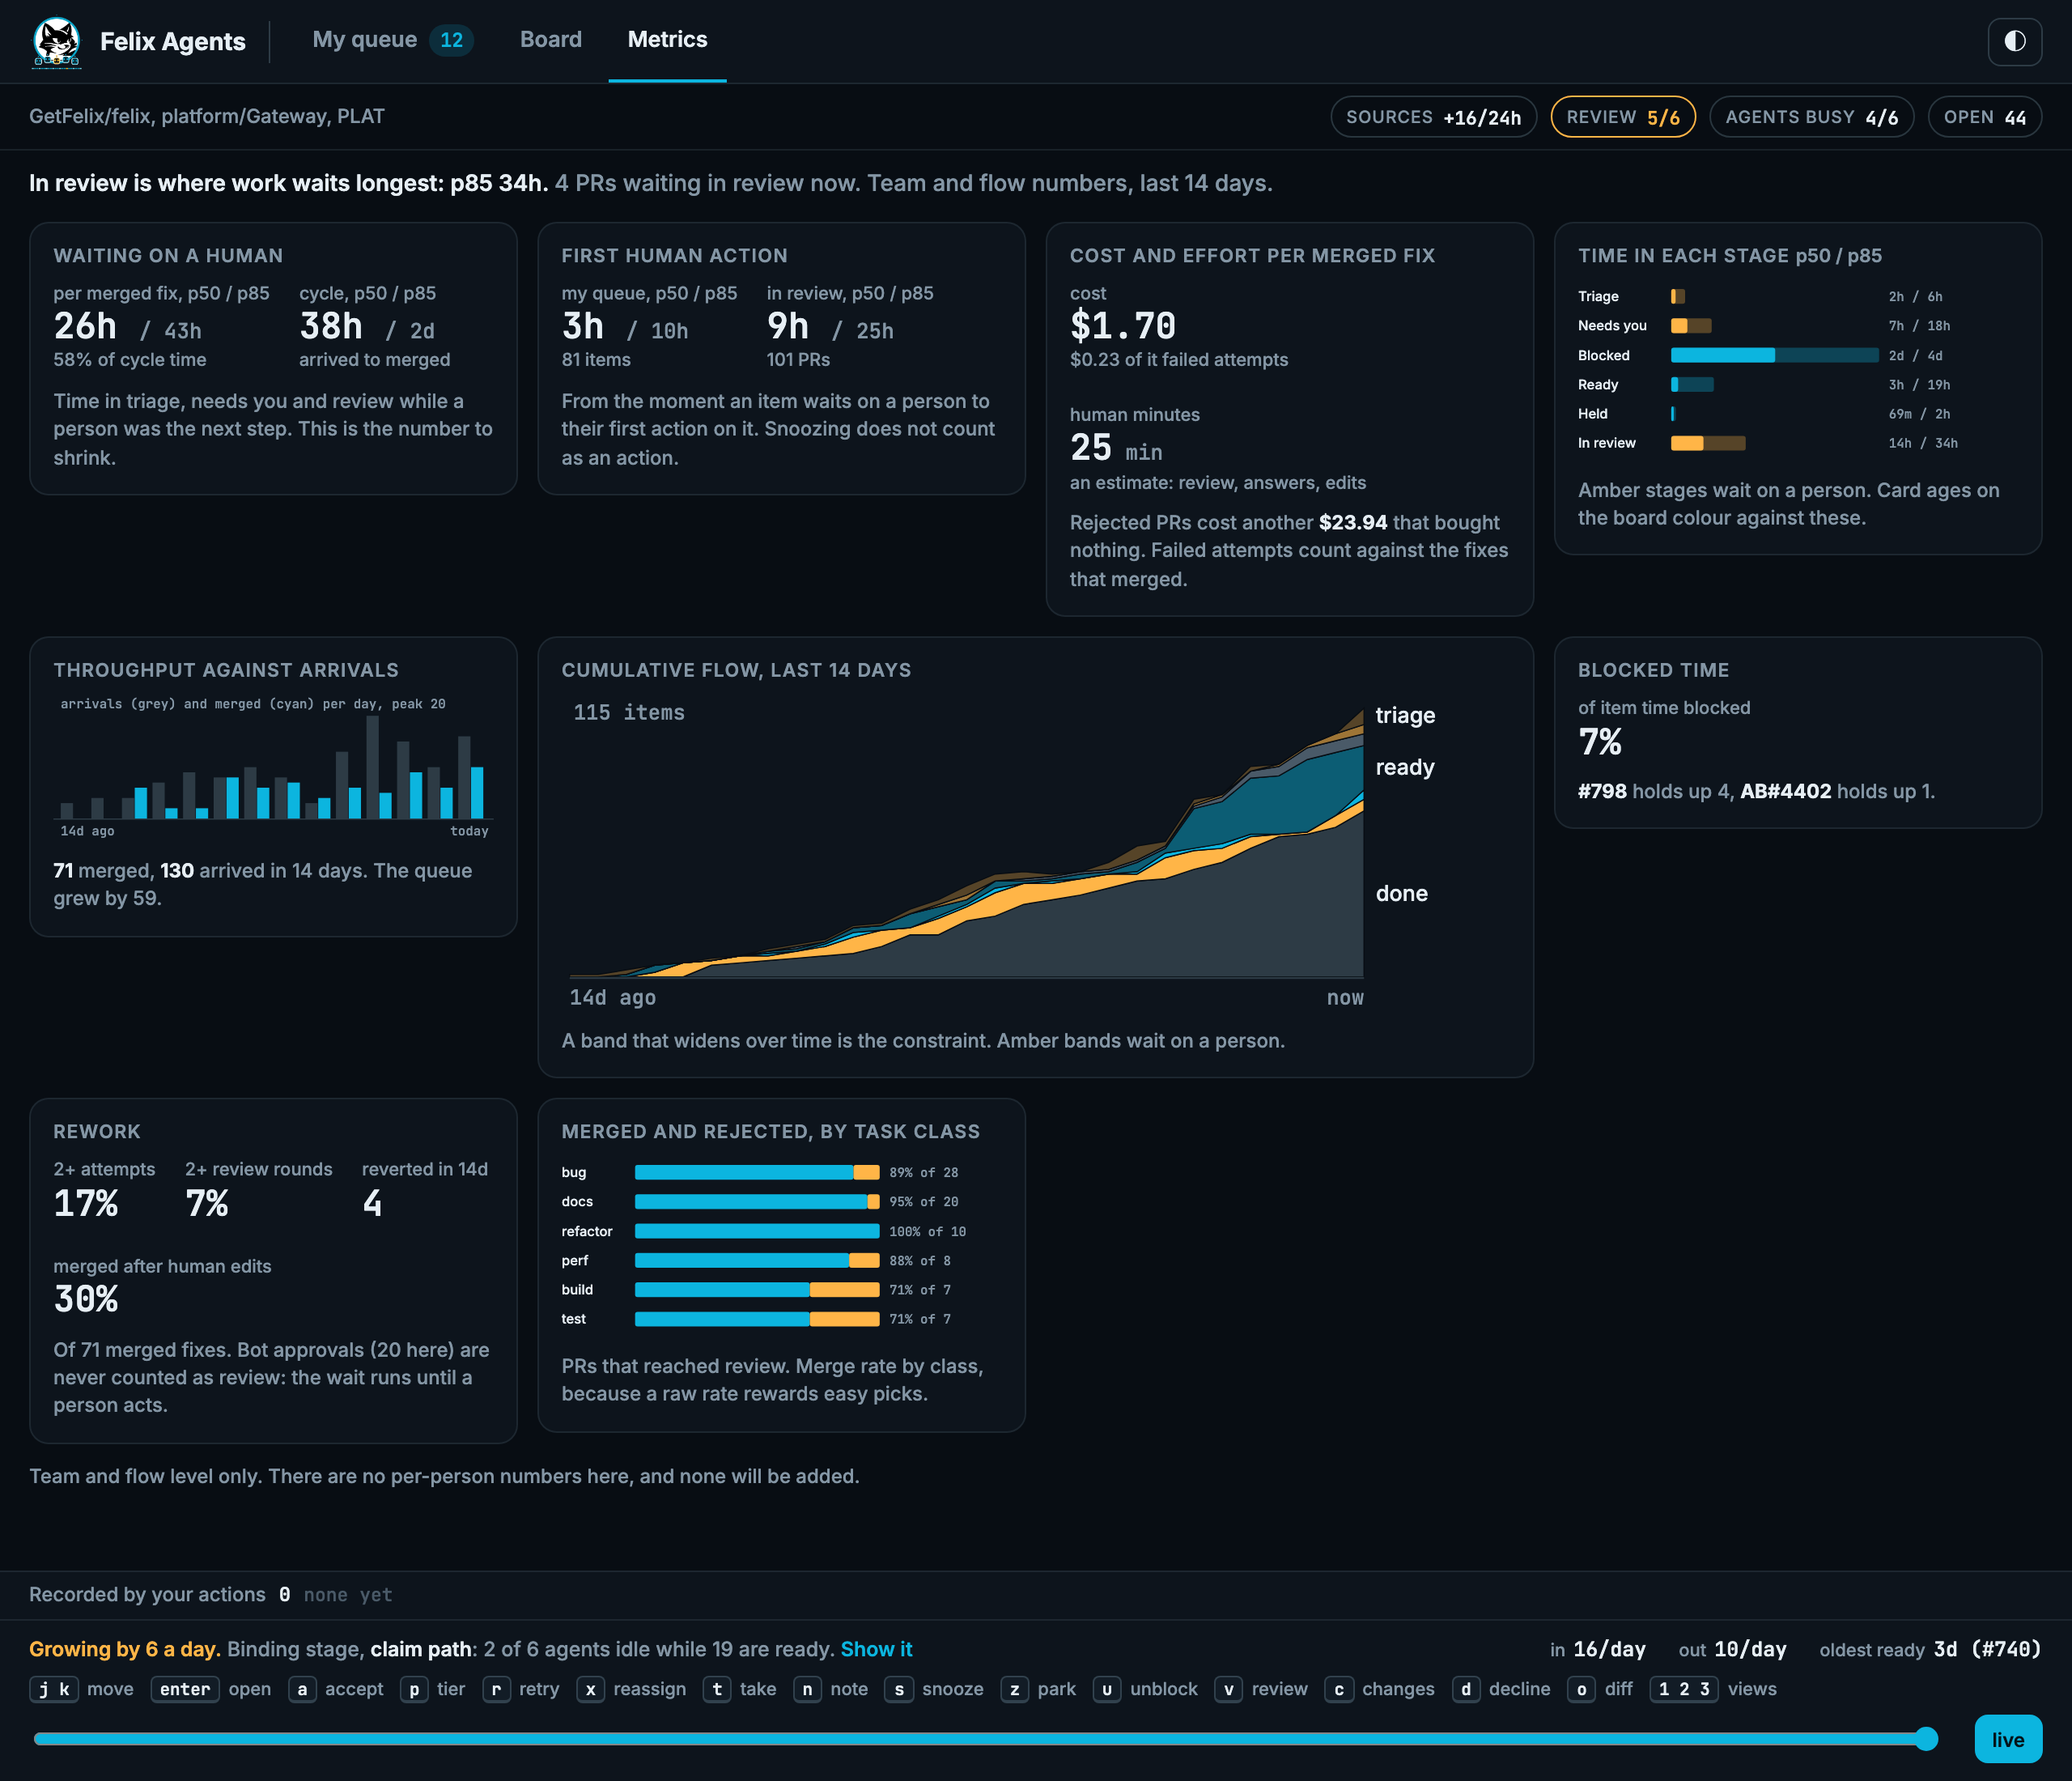
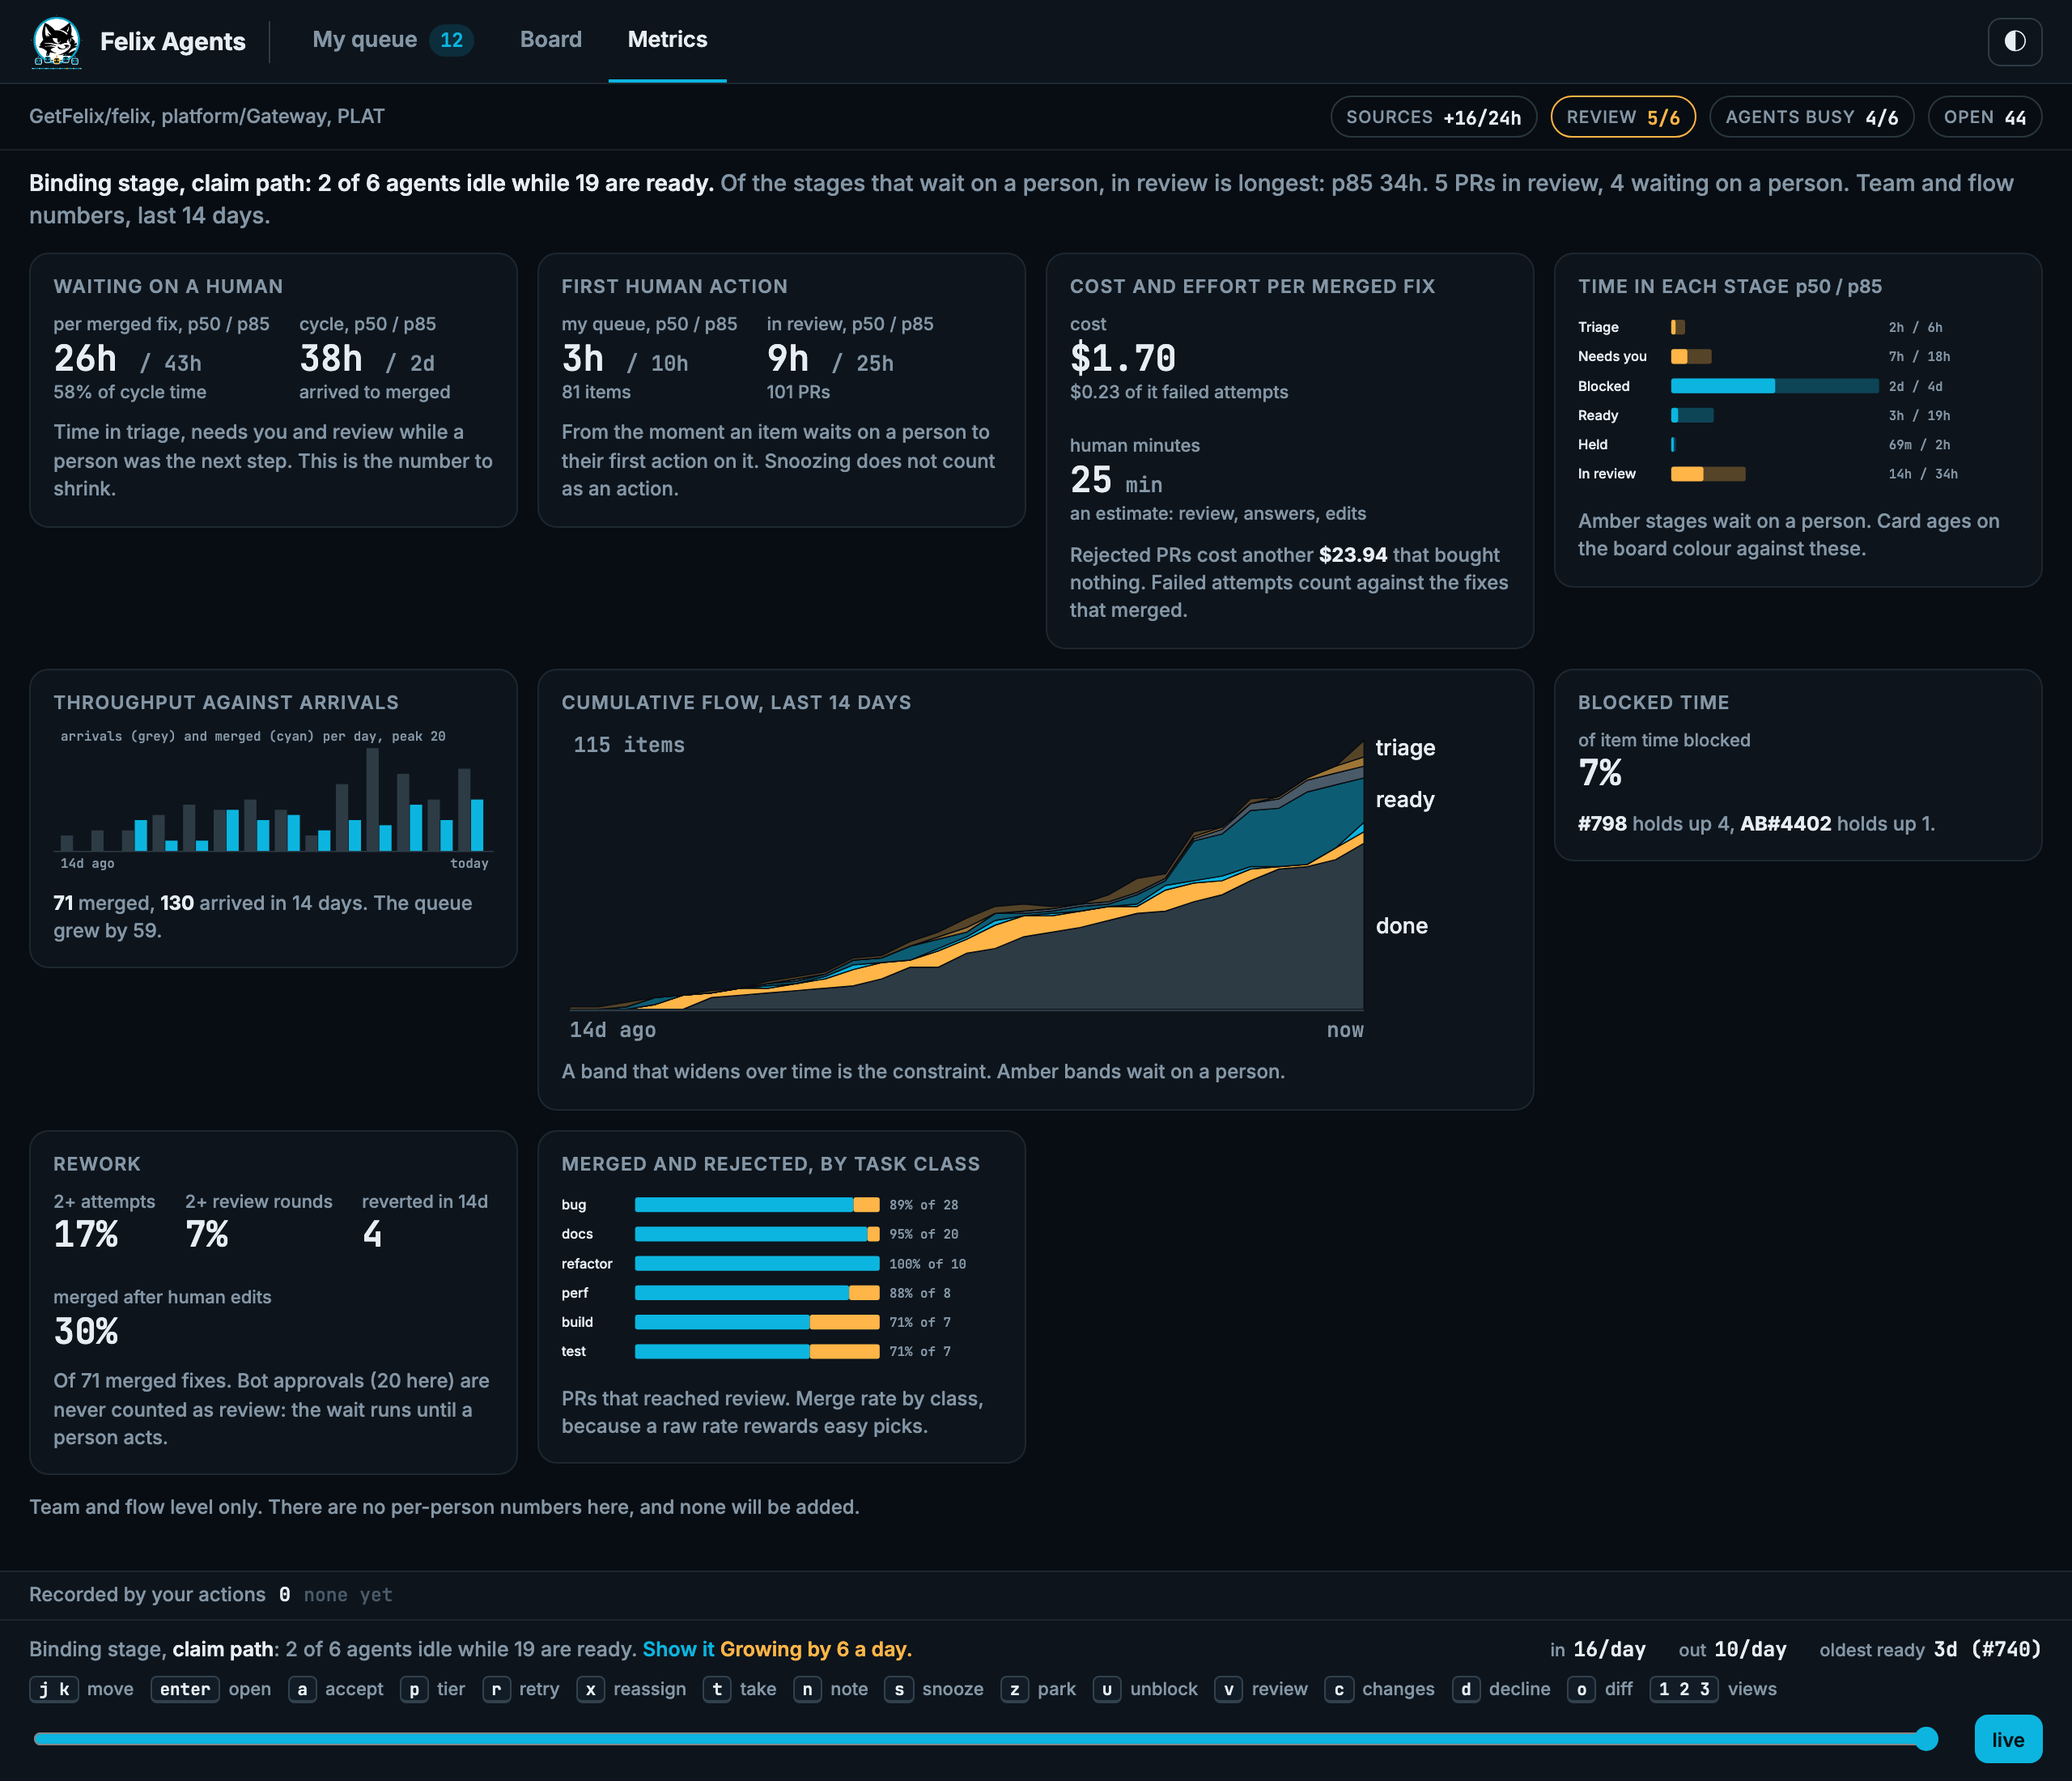
Dashboard: one binding-stage verdict and one set of counts; Unblock names its dependency

diff --git a/prototype/intake-frame.html b/prototype/intake-frame.html
@@ -559,7 +559,7 @@ function constraintOf(byStage, busy, agents, roots) {
   const oldest = (arr) => (arr.length ? cut - arr[0].since : 0);
   const cands = [];
   const add = (stage, label, arr, text, boost = 1) => { if (arr.length) cands.push({ stage, label, text, score: boost * oldest(arr) / stats[stage].p85 }); };
-  add('review', 'review', humanReview, `${plural(humanReview.length, 'PR')} waiting, oldest ${span(oldest(humanReview))}`);
+  add('review', 'review', humanReview, `${plural(byStage.review.length, 'PR')} in review, ${humanReview.length} waiting on a person, oldest ${span(oldest(humanReview))}`);
   const tri = byStage.triage.filter((it) => it.proposal);
   add('triage', 'triage', tri, `${plural(tri.length, 'proposal')} waiting for your accept, oldest ${span(oldest(tri))}`);
   add('needs', 'needs you', byStage.needs, `${plural(byStage.needs.length, 'item')} waiting on an answer or a decision, oldest ${span(oldest(byStage.needs))}`);
@@ -784,9 +784,9 @@ function renderFooter() {
   const inDay = [...state.items.values()].filter((it) => cut - it.at <= DAY).length;
   const outDay = [...state.items.values()].filter((it) => it.done && cut - it.doneAt <= DAY).length;
   const net = inDay - outDay;
-  const lead = net <= 0 ? `<b>Draining.</b>` : `<b class="grow">Growing by ${net} a day.</b>`;
-  const why = binding ? ` Binding stage, <b>${esc(binding.label)}</b>: ${binding.text}. <button class="lk" data-bind="${binding.stage}">Show it</button>` : ' Nothing is waiting long.';
-  $('bind').innerHTML = `${lead}${why}`;
+  const growth = net <= 0 ? ` <b>Draining.</b>` : ` <b class="grow">Growing by ${net} a day.</b>`;
+  const why = binding ? `Binding stage, <b>${esc(binding.label)}</b>: ${binding.text}. <button class="lk" data-bind="${binding.stage}">Show it</button>` : 'Nothing is waiting long.';
+  $('bind').innerHTML = `${why}${growth}`;
   const oldReady = by.ready[0];
   $('rates').innerHTML = `<span class="m"><small>in</small>${inDay}/day</span><span class="m"><small>out</small>${outDay}/day</span>` +
     `<span class="m"><small>oldest ready</small>${oldReady ? `${span(cut - oldReady.since)} (${esc(oldReady.ref)})` : 'none'}</span>`;
@@ -821,7 +821,9 @@ function detailHtml(it, chain) {
       : `<div class="blk"><h4>${esc(it.cause)}${it.lastAgent ? ` · last agent ${esc(it.lastAgent)}` : ''}</h4>${it.msg ? `"${esc(it.msg)}"` : esc(it.gaveUp)}<br><span class="meta">${esc(it.gaveUp)}${it.fails ? `, ${plural(it.fails, 'failed attempt')}` : ''}. Two attempts, then a person.</span></div>`;
   } else if (stage === 'blocked') {
     const open = it.deps.filter((d) => !it.resolved.has(d) && !state.items.get(d)?.done).map((d) => state.items.get(d).ref);
-    body = `<div class="blk">Waits on <b>${esc(open.join(', '))}</b>. Unblock marks the first as resolved.</div>`;
+    const first = it.deps.find((x) => !it.resolved.has(x) && !state.items.get(x)?.done);
+    const behind = [...rootsOf(state, state.items.get(first))].map((k) => state.items.get(k).ref);
+    body = `<div class="blk">Waits on <b>${esc(open.join(' and '))}</b>${behind.length ? `, which waits on <b>${esc(behind.join(' and '))}</b>` : ''}. <kbd>u</kbd> marks <b>${esc(open[0])}</b> resolved${open.length > 1 ? `; press again for ${esc(open.slice(1).join(' and '))}` : ''}.</div>`;
   } else if (stage === 'held') {
     body = `<div class="blk">Held by ${it.human ? '<span class="pill you">you</span>' : `<span class="agent">${esc(it.holder)}</span>`} for ${span(cut - it.claimedAt)}${it.steers ? `. ${plural(it.steers, 'note')} sent to the agent.` : ''}${it.human ? ' No agent will claim it.' : ''}</div>`;
   } else if (stage === 'review' || (stage === 'done' && it.pr)) {
@@ -905,7 +907,7 @@ function actionsFor(it) {
     tierStep(); snooze();
   } else if (s === 'blocked') {
     const d = it.deps.find((x) => !it.resolved.has(x) && !state.items.get(x)?.done);
-    if (d) add('u', 'Unblock', () => emit('unblocked', it.key, { on: d }), `Mark ${state.items.get(d).ref} resolved for this item`);
+    if (d) add('u', `Unblock ${state.items.get(d).ref}`, () => emit('unblocked', it.key, { on: d }), `Mark ${state.items.get(d).ref} resolved for this item`);
     tierStep(); snooze();
   } else if (s === 'ready') {
     tierStep();
@@ -1051,9 +1053,9 @@ function renderMetrics() {
   const stageRows = OPEN_STAGES.map((s) => ({ label: STAGE_NAME[s], hum: ['triage', 'needs', 'review'].includes(s), p50: stats[s].n ? stats[s].p50 : null, p85: stats[s].n ? stats[s].p85 : null }));
   const worst = stageRows.filter((r) => r.hum && r.p85 != null).sort((a, b) => b.p85 - a.p85)[0];
   const waiting = by.review.filter((it) => waitingOf(it) !== 'agent').length;
-  metricsHeadline = worst
-    ? `${worst.label} is where work waits longest: p85 ${span(worst.p85)}. <span>${plural(waiting, 'PR')} waiting in review now. Team and flow numbers, last 14 days.</span>`
-    : `Not enough finished work yet. <span>Team and flow numbers, last 14 days.</span>`;
+  const reviewLine = `${plural(by.review.length, 'PR')} in review, ${waiting} waiting on a person.`;
+  metricsHeadline = (binding ? `Binding stage, ${esc(binding.label)}: ${binding.text}. ` : 'Nothing is waiting long. ') +
+    `<span>${worst ? `Of the stages that wait on a person, ${worst.label.toLowerCase()} is longest: p85 ${span(worst.p85)}. ` : ''}${reviewLine} Team and flow numbers, last 14 days.</span>`;
   // Per day, newest last.
   const arr = Array(14).fill(0), mer = Array(14).fill(0);
   for (const it of all) {
@@ -1272,6 +1274,7 @@ window.intakeInfo = () => ({
   queue: { count: queue.rows.length, kinds: queue.kinds, rows: document.querySelectorAll('#qlist .qrow').length },
   review: { count: by.review.length, cap: settings.reviewCap, full: settings.reviewCap != null && by.review.length >= settings.reviewCap },
   binding: binding ? binding.label : null,
+  bindingStage: binding ? binding.stage : null,
   localEvents: localEvents.map((r) => r.kind),
   links: $('links').querySelectorAll('path').length,
   // Chain segments crossing a card that is not in the chain.
